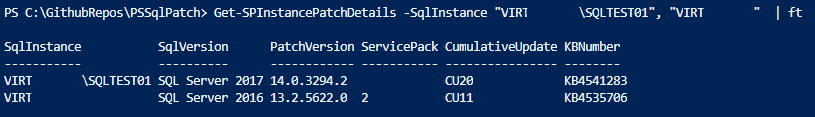
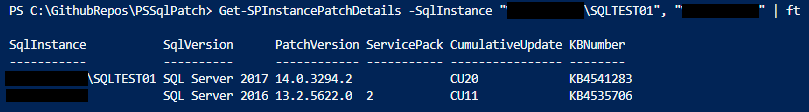
Improved examples, fixed typos

diff --git a/README.md b/README.md
@@ -80,14 +80,13 @@ This function gets relevant patch information for a given *SqlInstance*. It does
 
 ### Usage
 ```powershell
-Get-SPInstancePatchDetails -SqlInstance "SERVER1\SQLTEST01", "SERVER2\SQLTEST02" 
+Get-SPInstancePatchDetails -SqlInstance "SERVER1\SQLTEST01", "SERVER2" 
 ```
 This gets the patch information on the given SQL Server instances.
 
 ### Output
-*I've edited out the servernames slightly in this screenshot*
-![PSSqlPatch](/images/Get-SPInstancePatchDetails_example.png)
-
+*I've edited out the servernames in this screenshot*
+![Get-SPInstancePatchDetails_output](/images/Get-SPInstancePatchDetails_example.png)
 
 
 # Get-SPPatchReport
@@ -101,10 +100,10 @@ This gets the patch information on the given servers, and checks if there is a n
 
 ### Output
 *I've edited out the servernames in this screenshot*
-![PSSqlPatch](/images/Get-SPPatchReport_example.png)
+![Get-SPPatchReport_output](/images/Get-SPPatchReport_example.png)
 
 # Install-SPSqlPatchFile
-This function is used to upload and install a SQL Server patch file on a specified server. The function accepts the *TargetServer* and *SourcePatchFile* parameters. The *InstanceName* is only used to check the current patch level of SQL Server on the *TargetServer*. All instances will be patched. *InstanceName* is optional and an instance on the server will be retrieved automatically if it is not passed to the function. The *SourcePatchFile* is the path to the patch file you want to apply, it can be a local directory in relation to where the script is executed, or a network share. If the target server is on the same or newer patch version than the patch file give, no action will be taken.
+This function is used to upload and install a SQL Server patch file on a specified server. The function accepts the *TargetServer* and *SourcePatchFile* parameters. The *InstanceName* is only used to check the current patch level of SQL Server on the *TargetServer*. All instances will be patched. *InstanceName* is optional and an instance on the server will be retrieved automatically if it is not passed to the function. The *SourcePatchFile* is the path to the patch file you want to apply, it can be a local directory in relation to where the script is executed, or a network share. If the target server is on the same or newer patch version than the patch file given, no action will be taken.
 
 This function digresses from the standard of a PSObject being returned from a function, it instead creates logfiles and outputs messages to the user. By default, logfiles are created in *C:\\Users\\$env:UserName\\AppData\\Local\\PSSqlPatch\\logs\\Install-SPSqlPatchFile*, but the you can specify a different logfile location with *LogFile* parameter.
 
@@ -112,13 +111,13 @@ This function digresses from the standard of a PSObject being returned from a fu
 ```powershell
 Install-SPSqlPatchFile -TargetServer Server1 -SourcePatchFile "C:\SqlPatches\SQL 2017\CU20\SQLServer2017-KB4541283-x64.exe"
 ```
-This will check an automatically retrived instance on *Server1* for the patch level of the server. It then checks the patch level of the given patch file. If the server is on a lower patch level than the given patch, the file will be uploaded and applied. The server will be rebooted before (if required) and after the patch is applied.
+This will check an automatically retrieved instance on *Server1* for the patch level of the server. It then checks the patch level of the given patch file. If the server is on a lower patch level than the given patch, the file will be uploaded and applied. The server will be rebooted before (if required) and after the patch is applied.
 
 ### Output
 *I've edited out the servername in this screenshot*
-![PSSqlPatch](/images/Install-SPSqlPatchFile_example.png)
+![Install-SPSqlPatchFile_output](/images/Install-SPSqlPatchFile_example.png)
 
-In the above example, the *-Force* switch was not passed, so the user is prompted to confirm the server restart. It also shows how the SQL Server patch log is checked to ensure there were no issues, and finally the instance patch level is checked again to ensure it matches the patch file.
+In the above example, the *-Force* switch was not passed, so the user is prompted to confirm the server restart. It also shows how the SQL Server patch log is checked to ensure there were no issues, and finally the instance patch level is checked again to ensure it matches the patch file. The function also removes the patch file if patching was successful. If there was an issue with the patch, it will leave the patch file on the server, so you can do the patching manually or retry the function without having to upload the patch again.
 
 # Install-SPLatestSqlPatch
 This function uses a *PatchFileDirectory* or a *PatchFileObject* to determine the latest applicable SQL Server patch for a given TargetServer. It uses the **Get-SPPatchFileInfo** and **Install-SPSqlPatchFile** functions to do this. If the *PatchFileDirectory* parameter is passed, the function will use **Get-SPPatchFileInfo** with that directory to get the patch file object, which will then be used to check for the latest applicable patch. Alternatively, you can pass the object returned by **Get-SPPatchFileInfo** directly to the function using the *PatchFileObject* parameter. 
@@ -128,8 +127,13 @@ This function uses a *PatchFileDirectory* or a *PatchFileObject* to determine th
 Install-SPLatestSqlPatch -TargetServer Server1 -PatchFileDirectory "C:\sqlPatches"
 ```
 
-This will check an automatically retrived instance on *Server1* for the patch level of the server. It then scans the PatchFileDirectory for the latest patch available for the target server SQL Server version. If the server is on a lower patch level than the latest available patch, the file will be uploaded and applied. The server will be rebooted before (if required) and after the patch is applied.
+This will check an automatically retrieved instance on *Server1* for the patch level of the server. It then scans the PatchFileDirectory for the latest patch available for the target server SQL Server version. If the server is on a lower patch level than the latest available patch, the file will be uploaded and applied. The server will be rebooted before (if required) and after the patch is applied.
 
+### Output
+The output below shows the function searching for the latest applicable patch for the given server, and then checking to see if it's already been applied. In this case it has been, so no action has been carried out. The output of the actual patching process can be seen in the output example of **Install-SPSqlPatchFile** above.
+
+*Again, I've edited out the server name here*
+![Install-SPLatestSqlPatch_output](/images/Install-SPLatestSqlPatch_example.png)
 
 
 # Install-SPMultipleSqlPatches
